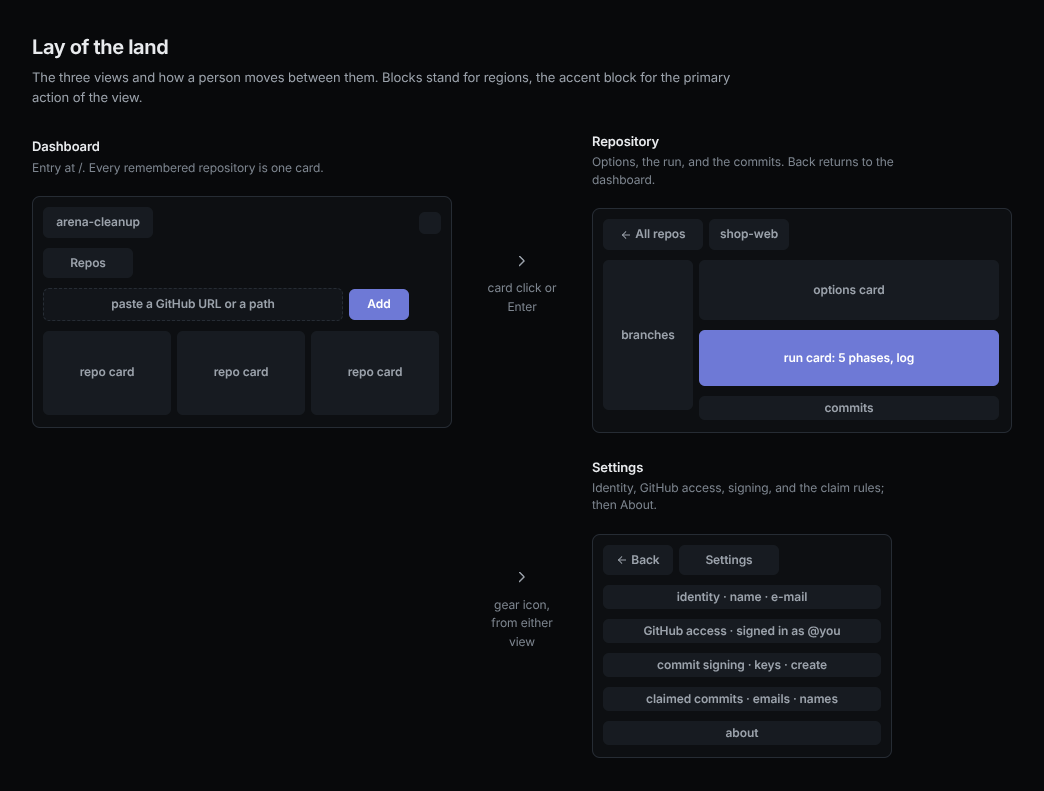
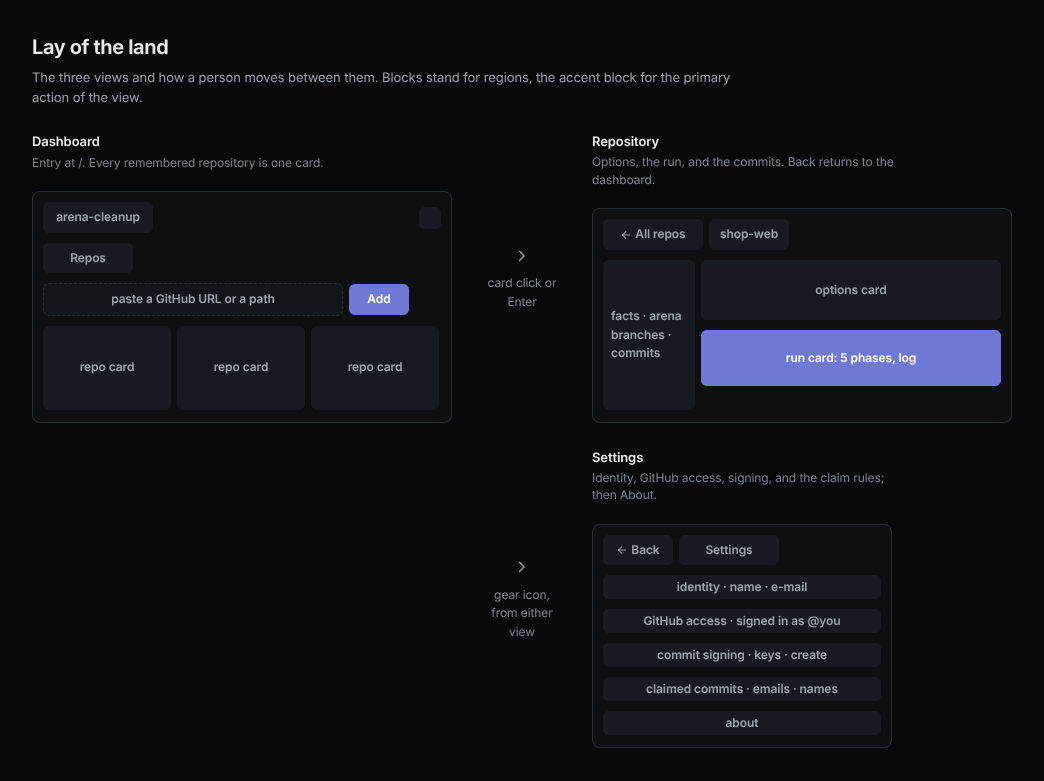
feat(ui): move the commits into a 320 px sidebar

diff --git a/ui/static/index.html b/ui/static/index.html
@@ -289,12 +289,19 @@
   .empty-state code { font-family: var(--mono); font-size: var(--fs-1); color: var(--muted); }
 
   /* ----------------------------------------------------------- repo view */
-  .detail { display: grid; grid-template-columns: 264px minmax(0, 1fr); flex: 1; min-height: 0; }
+  .detail { display: grid; grid-template-columns: 320px minmax(0, 1fr); flex: 1; min-height: 0; }
+  /* Sticky beside the scrolling page: the facts stay put, the commit list scrolls inside. */
   .sidebar {
     border-right: 1px solid var(--line); background: var(--surface);
     padding: 16px 12px; overflow: auto; scrollbar-gutter: stable; display: flex; flex-direction: column; gap: 20px;
+    position: sticky; top: 56px; height: calc(100vh - 56px); align-self: start;
   }
+  .side-top { display: flex; flex-direction: column; gap: 20px; flex: 0 0 auto; }
   .side-group { display: flex; flex-direction: column; gap: 4px; }
+  /* The commit list takes the rest of the column and scrolls on its own. */
+  .side-commits { flex: 1 1 auto; min-height: 0; }
+  .side-commits .commits { flex: 1 1 auto; min-height: 120px; overflow: auto; scrollbar-gutter: stable; }
+  .side-label .btn { height: auto; padding: 2px 6px; font-size: var(--fs-1); font-weight: 600; }
   .side-label {
     font-size: var(--fs-1); font-weight: 600; letter-spacing: 0;
     color: var(--muted); padding: 0 6px 4px; display: flex; justify-content: space-between;
@@ -449,15 +456,15 @@
 
   .commits { display: flex; flex-direction: column; }
   .commit {
-    display: grid; grid-template-columns: 68px minmax(0, 1fr) auto; gap: 12px;
-    align-items: center; padding: 8px 16px; border-top: 1px solid var(--line); font-size: var(--fs-2);
+    display: grid; grid-template-columns: auto minmax(0, 1fr); gap: 2px 8px;
+    align-items: center; padding: 8px 6px; border-top: 1px solid var(--line); font-size: var(--fs-2);
   }
   .commit:first-child { border-top: 0; }
   .commit .sha { font: var(--fs-1) var(--mono); color: var(--dim); }
   .commit .subject { overflow: hidden; text-overflow: ellipsis; white-space: nowrap; }
   .commit .meta {
-    display: flex; align-items: center; gap: 8px; color: var(--dim);
-    font-size: var(--fs-1); white-space: nowrap;
+    grid-column: 1 / -1; display: flex; align-items: center; gap: 8px; color: var(--dim);
+    font-size: var(--fs-1); white-space: nowrap; flex-wrap: wrap;
   }
   .commit .sig { color: var(--ok); font-size: var(--fs-1); }
   .commit .sig.none { color: var(--dim); }
@@ -530,8 +537,10 @@
 
   @media (max-width: 980px) {
     :root { --pad: 16px; }
-    .detail { grid-template-columns: 1fr; }
-    .sidebar { display: none; }
+    /* One column: the run first, then the sidebar with the facts and the commits. */
+    .detail { grid-template-columns: 1fr; grid-template-rows: auto auto; align-content: start; }
+    .sidebar { order: 2; position: static; height: auto; overflow: visible; border-right: 0; border-top: 1px solid var(--line); }
+    .side-commits .commits { max-height: 360px; }
     .options { grid-template-columns: 1fr; }
     .grid { grid-template-columns: 1fr; }
   }
@@ -546,8 +555,7 @@
     .hint, .opt-label .desc, .phase-sub, .run-foot .hint, .commit .meta { font-size: 12px; }
     .phase-head { padding: 10px 12px; font-size: 13px; }
     .task-note { font-size: 12px; }
-    .commit { font-size: 13px; grid-template-columns: 68px minmax(0, 1fr); row-gap: 4px; }
-    .commit .meta { grid-column: 1 / -1; white-space: normal; flex-wrap: wrap; }
+    .commit { font-size: 13px; }
     .sign-fields { grid-template-columns: 1fr; }
     .sign-row .k { flex-basis: 100%; min-width: 0; }
     .run-foot { flex-wrap: wrap; }
@@ -576,7 +584,8 @@
     .addbar .field { flex: 0 0 auto; height: 48px; padding: 0 12px; }
     .addbar .btn { height: 48px; font-size: 15px; }
     #start { display: none; }  /* the tab bar carries the run controls on a phone */
-    .main-col { padding: 12px 12px 88px; }
+    .main-col { padding: 12px; }
+    .sidebar { padding-bottom: 88px; }
     .wrap { padding: 16px var(--pad) 88px; }
     .detail-head h1 { font-size: 15px; }
     .card-head { flex-wrap: wrap; height: auto; padding: 10px 12px; gap: 6px; }
@@ -669,7 +678,16 @@
   <!-- ============================================================ repo view -->
   <div class="view" id="view-repo" hidden>
     <div class="detail">
-      <aside class="sidebar" id="sidebar"></aside>
+      <aside class="sidebar" id="sidebar">
+        <div class="side-top" id="side-top"></div>
+        <section class="side-group side-commits" id="commits-card">
+          <div class="side-label">
+            <span>Commits <span class="hint" id="commits-hint"></span></span>
+            <button class="btn ghost" id="commits-refresh">Reload</button>
+          </div>
+          <div class="commits" id="commits"></div>
+        </section>
+      </aside>
       <div class="main-col">
         <div class="detail-head">
           <button class="btn ghost back" id="back"><span class="ico-svg" data-icon="arrow-left" aria-hidden="true"></span>All repos</button>
@@ -753,16 +771,6 @@
             <div class="log" id="log" role="log" aria-live="polite" aria-relevant="additions"></div>
             <button class="jump" id="jump"><span class="ico-svg" data-icon="arrow-down" aria-hidden="true"></span>latest</button>
           </div>
-        </section>
-
-        <section class="card" id="commits-card">
-          <div class="card-head">
-            <h2>Commits</h2>
-            <span class="hint" id="commits-hint"></span>
-            <div class="grow"></div>
-            <button class="btn ghost" id="commits-refresh">Reload</button>
-          </div>
-          <div class="commits" id="commits"></div>
         </section>
       </div>
     </div>
@@ -1128,7 +1136,7 @@
 
   function renderSidebar() {
     const s = state.repo?.status || {};
-    const side = $("sidebar");
+    const side = $("side-top");
     const kv = el("dl", { class: "kv" });
     const add = (k, v, mono) => { kv.append(el("dt", {}, k), el("dd", { class: mono ? "mono" : "" }, v ?? "…")); };
     add("branch", s.branch, false);
@@ -1146,10 +1154,6 @@
                aheadPill((s.ahead || {})[b], s.default, "meta ahead"),
                el("span", { class: "meta" }, metaFor((s.pr || {})[b], s.pr_checked)))))
         : [el("div", { class: "row-btn", style: "cursor:default;color:var(--dim)" }, el("span", { class: "txt" }, "none on origin"))]));
-
-    const head = el("div", { class: "side-group" },
-      el("div", { class: "side-label" }, "HEAD"),
-      el("div", { style: "padding:0 6px;color:var(--muted);font:var(--fs-1)/1.5 var(--mono);overflow-wrap:anywhere" }, s.head || "unknown"));
 
     // Two clicks, like the card's Remove: the first arms, the second resets.
     const target = `origin/${s.default || "?"}`;
@@ -1182,7 +1186,7 @@
 
     side.replaceChildren(
       el("div", { class: "side-group" }, el("div", { class: "side-label" }, "Repo"), kv, reset),
-      branches, head);
+      branches);
   }
 
   function renderBranchSelect() {
@@ -1614,7 +1618,7 @@
         ? `${data.shown} of ${data.total} on ${data.branch}`
         : `nothing on ${data.branch}`;
       if (!data.commits.length) {
-        box.replaceChildren(el("div", { class: "hint", style: "padding:16px" }, "This branch has no commits yet."));
+        box.replaceChildren(el("div", { class: "hint", style: "padding:8px 6px" }, "This branch has no commits yet."));
         return;
       }
       box.replaceChildren(...data.commits.map((c) =>
@@ -1628,7 +1632,7 @@
             el("span", {}, when(c.date))))));
     } catch (err) {
       $("commits-hint").textContent = "";
-      box.replaceChildren(el("div", { class: "hint", style: "padding:16px" }, err.message));
+      box.replaceChildren(el("div", { class: "hint", style: "padding:8px 6px" }, err.message));
     }
   }
 

diff --git a/scripts/design_boards.py b/scripts/design_boards.py
@@ -260,11 +260,10 @@ def flow_board(_: dict[str, bytes]) -> str:
     + block("shop-web", width="80px")
     + "</div>"
     + '<div class="bar" style="align-items:flex-start">'
-    + block("branches", height=150, width="90px")
+    + block("facts · arena branches · commits", height=150, width="110px")
     + '<div class="col" style="gap:8px;flex:1">'
     + block("options card", height=60, width="300px")
     + block("run card: 5 phases, log", hi=True, height=56, width="300px")
-    + block("commits", height=24, width="300px")
     + "</div></div></div>"
   )
   settings = (
@@ -361,8 +360,12 @@ def wireframe_board(_: dict[str, bytes]) -> str:
     + block("Copy log", width="70px")
     + "</div>"
   )
-  commits = block("Commits — 1 of 1 on main · Reload", height=24) + block(
-    "6f5a842  chore: init  other-dev  Jan 1", height=24
+  sidebar = (
+    block("Repo — branch · default · changes · remote", height=24)
+    + block("Reset to origin/main", height=24)
+    + block("Arena branches — ↑ N · PR state", height=24)
+    + block("Commits — 1 of 1 on main · Reload", height=24)
+    + block("6f5a842  chore: init · other-dev · Jan 1", height=24)
   )
   screen = (
     '<div class="scr wide" style="width:560px">'
@@ -371,9 +374,12 @@ def wireframe_board(_: dict[str, bytes]) -> str:
     + block("shop-web", width="90px")
     + "</div>"
     + block("task sentence: what the run does", soft=True, height=28)
+    + '<div class="bar" style="align-items:flex-start">'
+    + f'<div class="scr" style="width:200px">{sidebar}</div>'
+    + '<div class="col" style="gap:8px;flex:1">'
     + f'<div class="scr" style="width:auto">{options}</div>'
     + f'<div class="scr" style="width:auto">{run}</div>'
-    + f'<div class="scr" style="width:auto">{commits}</div></div>'
+    + "</div></div></div>"
   )
   actions = (
     '<table class="sheet"><tr><td class="mono">Clean &amp; Push</td>'
@@ -382,14 +388,15 @@ def wireframe_board(_: dict[str, bytes]) -> str:
     '<tr><td class="mono">Show log</td><td>unfolds the raw lines under the phase list</td></tr>'
     '<tr><td class="mono">Copy log</td><td>puts the whole log on the clipboard</td></tr>'
     '<tr><td class="mono">Ctrl + Enter</td><td>starts the run from anywhere</td></tr>'
+    '<tr><td class="mono">980 px</td><td>the sidebar stacks below the run card</td></tr>'
     '<tr><td class="mono">720 px</td><td>primary actions stick to the bottom; one column</td></tr></table>'
   )
   body = (
     '<div class="wf"><div class="row">'
     + frame(
       "Repository view",
-      "Deep dive: the one view where a run happens. Three cards in one column; the run "
-      "card is the story, the raw log is one click away.",
+      "Deep dive: the one view where a run happens. The sidebar holds the facts and the "
+      "commits; the run card is the story, the raw log is one click away.",
       screen,
     )
     + frame("Key actions", "What the view promises.", actions)

diff --git a/scripts/walk.py b/scripts/walk.py
@@ -347,6 +347,11 @@ def sidebar_and_branch_selector(w: Walker, demo: Demo) -> None:
   assert "arena/session-3" in sidebar
   assert w.count("#sidebar button[data-branch]") == 0, "arena rows are not targets"
   assert w.count("#sidebar .row-btn .ahead") == 1
+  assert "HEAD" not in sidebar, "the HEAD block is gone"
+  assert w.count("#sidebar .commit") >= 1, "the commits live in the sidebar"
+  assert (
+    w.page.eval_on_selector("#sidebar", "e => e.getBoundingClientRect().width") == 320
+  )
   assert w.page.input_value("#branch") == ""
   options = [o.text_content() for o in w.page.locator("#branch option").all()]
   assert options == ["main (default)"]
@@ -607,6 +612,16 @@ def phone_loads(w: Walker, demo: Demo) -> None:
 def phone_tab_bar_in_the_repo_view(w: Walker, demo: Demo) -> None:
   w.click(".repo-card", 700)
   assert w.visible("#tabbar")
+
+
+@step("phone")
+def phone_stacks_the_sidebar_below_the_run(w: Walker, demo: Demo) -> None:
+  top = "e => e.getBoundingClientRect().top"
+  assert w.visible("#sidebar")
+  assert w.page.eval_on_selector("#sidebar", top) > w.page.eval_on_selector(
+    "#console-card", top
+  )
+  assert w.count("#sidebar .commit") >= 1
 
 
 @step("phone")

diff --git a/docs/design.md b/docs/design.md
@@ -28,7 +28,7 @@ The one design record for the arena-cleanup web app. The sections follow the nem
 ## Screens and states
 
 - Dashboard: add bar, repository cards. Empty: a hint with the add command. Error: a banner above the cards. A card shows the branch and `N uncommitted` only when the clone is dirty. Each arena row carries `↑ N`, the commits that branch holds beyond `origin/<default>`, with a tooltip. The Remove X sits top right as a bare glyph. A red frame comes on hover, on press, and while armed.
-- Repository: options card, run card with the phase list and log, commits card. The options card folds from its head; closed, the head shows the branch pill and what differs from the defaults. Target branch lists the default branch first and never an `arena/*` branch. Arena branch appears with two or more arena branches, newest tip first. The chosen one goes to the run as `--arena`. The sidebar rows list the arena branches with their PR state and are not controls. The page runs the full flow only; `strip` is a CLI command. Browse under Remove paths opens the HEAD tree of the clone, one level per request. A click on a row or its plus adds the chip. Log rows show the clock of the browser. Remove on a card arms on the first click and deletes the URL clone on the second. States: idle, running, done, failed, cancelled. The sidebar ends with Reset to origin, a two-click button that checks out the default branch and resets it hard.
+- Repository: a 320 px sidebar, options card, run card with the phase list and log. The options card folds from its head; closed, the head shows the branch pill and what differs from the defaults. Target branch lists the default branch first and never an `arena/*` branch. Arena branch appears with two or more arena branches, newest tip first. The chosen one goes to the run as `--arena`. The sidebar holds the repo facts, Reset to origin, and the arena rows on top. The commit list fills the rest and scrolls on its own. Each row shows hash, subject, author, and date; Reload sits in its label. The arena rows show the PR state and are not controls. The page runs the full flow only; `strip` is a CLI command. Browse under Remove paths opens the HEAD tree of the clone, one level per request. A click on a row or its plus adds the chip. Log rows show the clock of the browser. Remove on a card arms on the first click and deletes the URL clone on the second. States: idle, running, done, failed, cancelled. Reset to origin is a two-click button that checks out the default branch and resets it hard.
 - Settings: Identity (name, email, Save), GitHub sign-in and credential helper, signing cards, Claimed commits (two chip lists, Save). Below: About. Signing cards: gpg banner when gpg is missing, key list, create card, GitHub key steps. Disabled: Create key while gpg is missing. Error: the banner names the failed check. Each card loads on its own.
 - Offline: the service worker serves the shell; data requests fail with the normal error banner.
 - Loading and permission states: not run as separate checks.
@@ -58,7 +58,7 @@ The one design record for the arena-cleanup web app. The sections follow the nem
 
 - Spacing scale: 2, 4, 6, 8, 10, 12, 16, 20, 24, and 32 px, with 1 px for borders.
 - Page padding `--pad`: 20 px, 16 px at 980 px and below, 14 px at 720 px and below.
-- Breakpoints: the options sit in two columns at every width above 980 px. 980 px hides the sidebar and keeps one column. 720 px switches to the phone ramp, 44 px targets, and stacked rows.
+- Breakpoints: the options sit in two columns at every width above 980 px. 980 px keeps one column and stacks the sidebar below the run card. 720 px switches to the phone ramp, 44 px targets, and stacked rows.
 - Radius `--r` 10 px for cards, 8 px for buttons and fields, 999 px for pills.
 
 ### Theme and motion
@@ -129,6 +129,7 @@ The one design record for the arena-cleanup web app. The sections follow the nem
 - Accepted 2026-10-22: no command switch on the repository page. A local rewrite without a push is a terminal task, so `strip` lives in the CLI alone.
 - Accepted 2026-10-22: the whole options card folds, not the Target branch row alone. The select names the default branch first, keeps the empty value, and lists no `arena/*` branch; the server refuses one too.
 - Accepted 2026-10-22: with two or more arena branches the page selects one, newest tip first, in the options card. The engine gained `--arena NAME` for it and keeps the full flow. The page never passes `-b arena/*`.
+- Accepted 2026-10-22: the sidebar grows to 320 px. The commit list sits below the repo facts, Reset, and the arena rows. The HEAD block goes. The hash leads each commit row. Below 980 px the sidebar stacks under the run card instead of hiding.
 - Accepted 2026-10-22: the card and the sidebar show how far each arena branch is ahead of the default branch. The clone's own drift stays out of sight. Nobody commits in the container, and the engine handles that divergence itself.
 - Accepted 2026-10-22: the primary button reads Clean & Push. The phase list keeps Publish for the push, tags, and cleanup step.
 - Accepted 2026-10-22: a tree selector for Remove paths. It reads `git ls-tree` of HEAD in the clone, so it works for path repositories and never calls GitHub. File contents stay out; a path only old commits carried stays a typed chip.

diff --git a/CHANGELOG.md b/CHANGELOG.md
@@ -29,6 +29,7 @@ and the project uses [Semantic Versioning](https://semver.org/spec/v2.0.0.html).
 - The repository card meta drops the tag count; it shows the branch and the tree state.
 - Arena rows on the card and in the sidebar show `↑ N` with a tooltip. N counts the commits beyond the default branch.
 - `run -a/--arena NAME` answers the arena branch menu without a prompt. The page shows that select, newest tip first, when a repository has two or more arena branches. The card button uses the newest.
+- The repository sidebar is 320 px wide. It lists the commits below the repo facts, Reset, and the arena rows. The HEAD block is gone. Below 980 px it stacks under the run card.
 - A shallow history: one Back leaves a sub-view, the next one leaves the page.
 - The card shows `N uncommitted` only when the clone is dirty.
 - The app copy says repo and repos.
